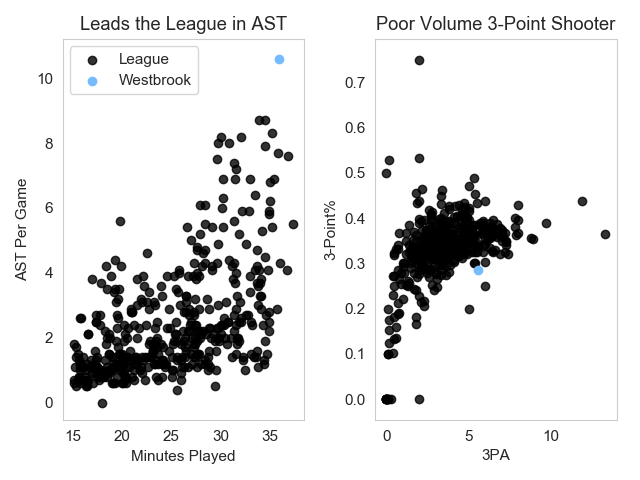
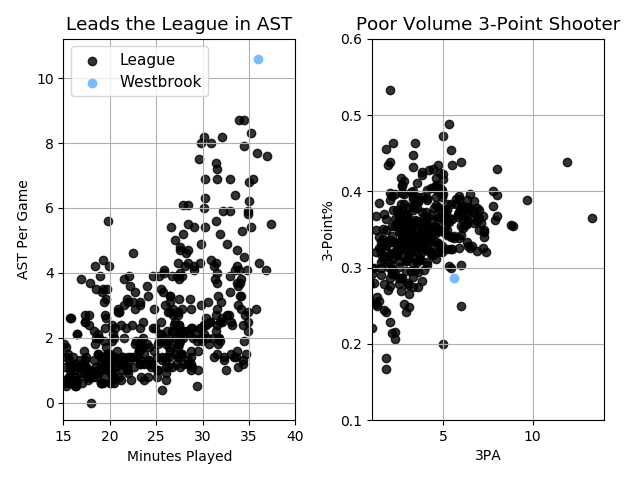
added subplots

diff --git a/Russ/russ_subplot.py b/Russ/russ_subplot.py
@@ -1,0 +1,37 @@
+import numpy as np
+import pandas as pd
+from matplotlib import pyplot as plt
+import seaborn as sns
+
+#AST and 3PA subplots
+df = pd.read_csv(r'C:\Users\wilso\Desktop\NBA_Analysis\MVP_Race\data\Player-PerGame.csv',index_col=0)
+df = df[df['MP']>15]
+df['rw'] = df.Player == 'Russell Westbrook'
+rw = df[df.rw==True]
+league_players = df[df.rw==False]
+players_2 = league_players[league_players['ThreePA']>=5]
+
+fig, axes = plt.subplots(nrows=1, ncols=2, dpi=100)
+plt.rcParams.update({'font.size': 11})
+
+axes[0].scatter(league_players.MP, league_players.AST, c=sns.xkcd_palette(['black']), label='League', alpha = .8)
+axes[0].scatter(rw.MP, rw.AST, c=sns.xkcd_palette(['sky blue']), label='Westbrook')
+axes[0].set_title('Leads the League in AST')
+axes[0].set_xlabel('Minutes Played')
+axes[0].set_ylabel('AST Per Game')
+axes[0].legend(loc=2,frameon=True)
+axes[0].set_xlim(15,40)
+axes[1].set_ylim(2,11)
+axes[0].grid()
+
+axes[1].scatter(league_players.ThreePA, league_players.ThreePPer, c=sns.xkcd_palette(['black']), alpha = .8)
+axes[1].scatter(rw.ThreePA, rw.ThreePPer, c=sns.xkcd_palette(['sky blue']))
+axes[1].set_title('Poor Volume 3-Point Shooter')
+axes[1].set_xlabel('3PA')
+axes[1].set_ylabel('3-Point%')
+axes[1].set_xlim(1,14)
+axes[1].set_ylim(0.1,.6)
+axes[1].grid()
+fig.tight_layout()
+
+plt.savefig(fname=r'C:\Users\wilso\Desktop\NBA_Analysis\Russ\figs\russ_subplot')

diff --git a/Russ/russ_plotty.py b/Russ/russ_plotty.py
@@ -23,31 +23,3 @@ x.ax_joint.set_xlabel('Point Differential', fontweight='bold')
 x.ax_joint.set_ylabel('ASTs', fontweight='bold')
 
 plt.savefig(fname=r'C:\Users\wilso\Desktop\NBA_Analysis\Russ\figs\ast_pointdiff')
-
-#AST and 3PA subplots
-df = pd.read_csv(r'C:\Users\wilso\Desktop\NBA_Analysis\MVP_Race\data\Player-PerGame.csv',index_col=0)
-df = df[df['MP']>15]
-df['rw'] = df.Player == 'Russell Westbrook'
-rw = df[df.rw==True]
-league_players = df[df.rw==False]
-players_2 = league_players[league_players['ThreePA']>=5]
-
-fig, axes = plt.subplots(nrows=1, ncols=2, dpi=100)
-plt.rcParams.update({'font.size': 11})
-
-axes[0].scatter(league_players.MP, league_players.AST, c=sns.xkcd_palette(['black']), label='League', alpha = .8)
-axes[0].scatter(rw.MP, rw.AST, c=sns.xkcd_palette(['sky blue']), label='Westbrook')
-axes[0].set_title('Leads the League in AST')
-axes[0].set_xlabel('Minutes Played')
-axes[0].set_ylabel('AST Per Game')
-axes[0].legend(loc=2,frameon=True)
-axes[0].grid()
-axes[1].scatter(league_players.ThreePA, league_players.ThreePPer, c=sns.xkcd_palette(['black']), alpha = .8)
-axes[1].scatter(rw.ThreePA, rw.ThreePPer, c=sns.xkcd_palette(['sky blue']))
-axes[1].set_title('Poor Volume 3-Point Shooter')
-axes[1].set_xlabel('3PA')
-axes[1].set_ylabel('3-Point%')
-axes[1].grid()
-fig.tight_layout()
-
-plt.savefig(fname=r'C:\Users\wilso\Desktop\NBA_Analysis\Russ\figs\russ_subplot')
